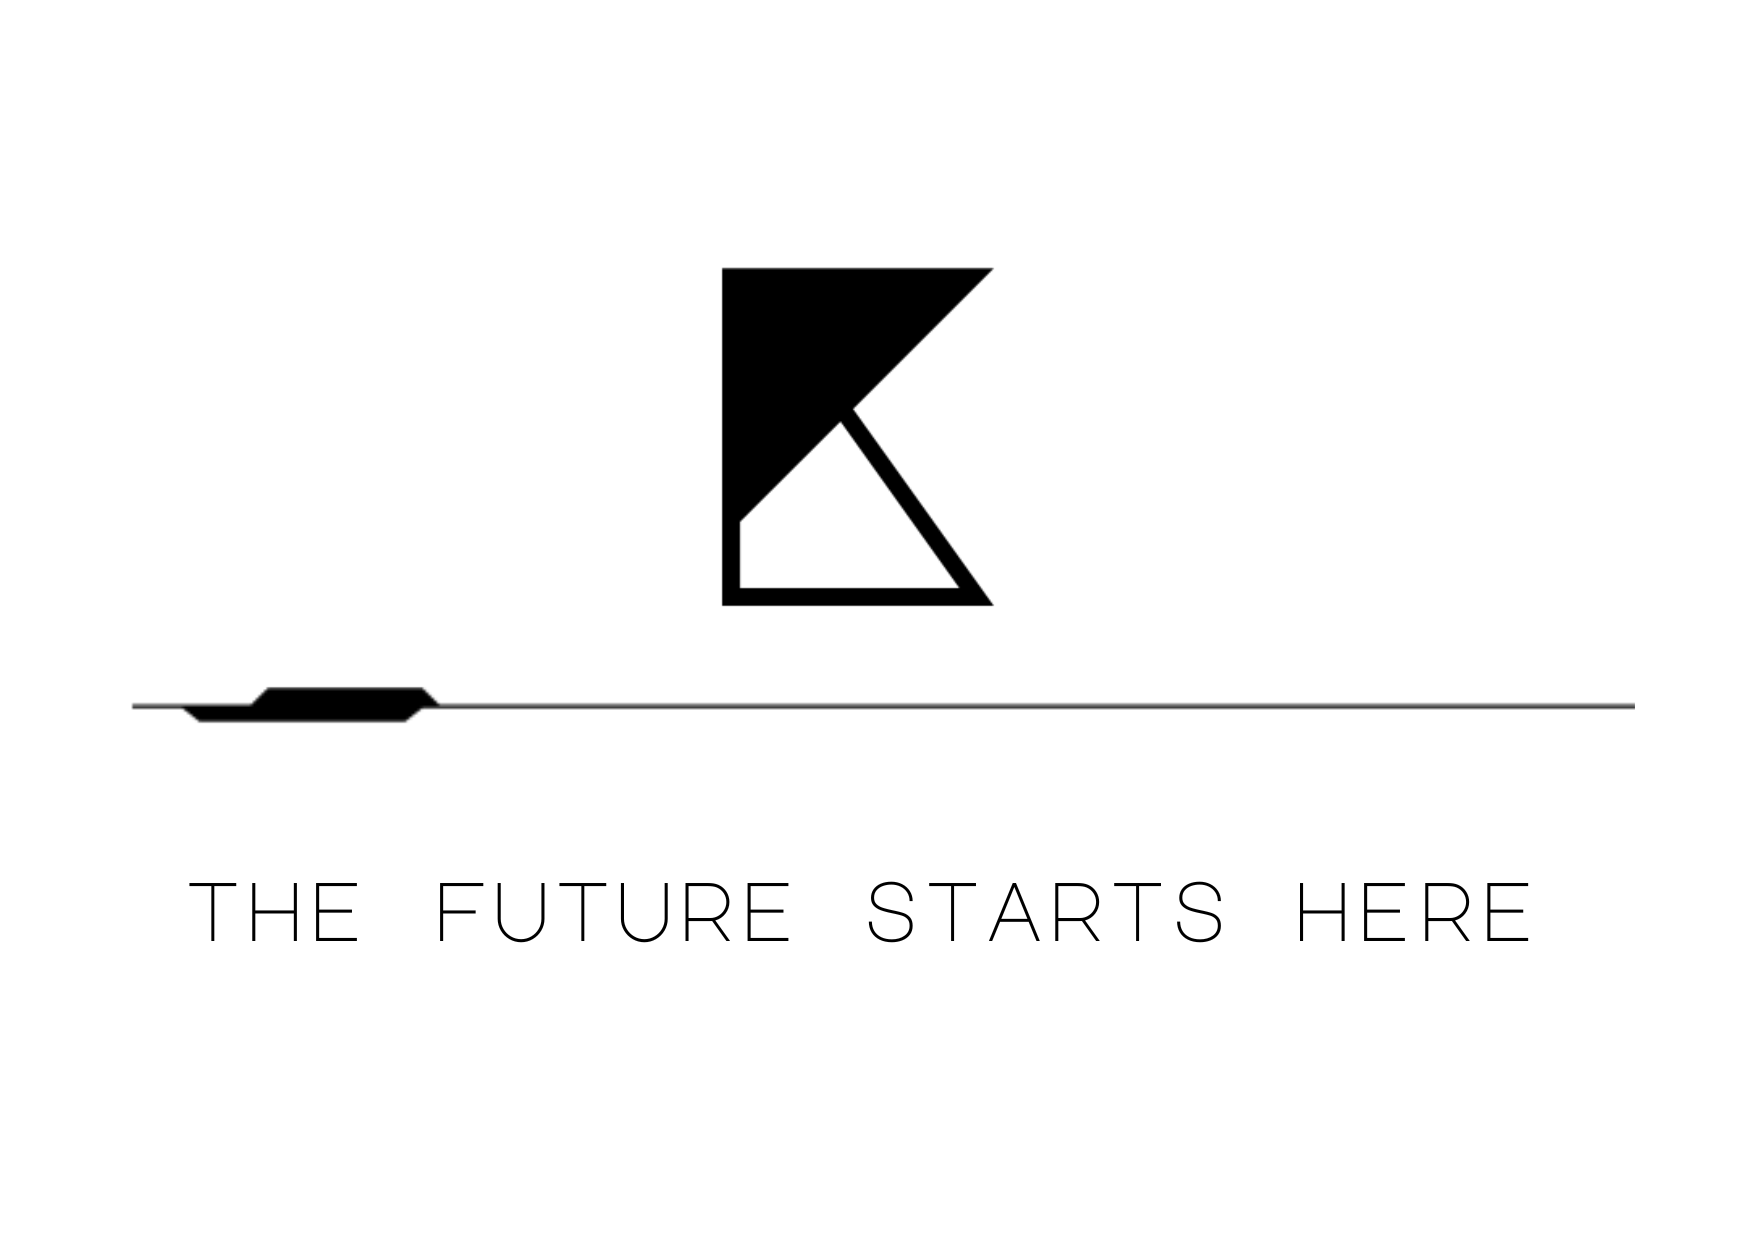
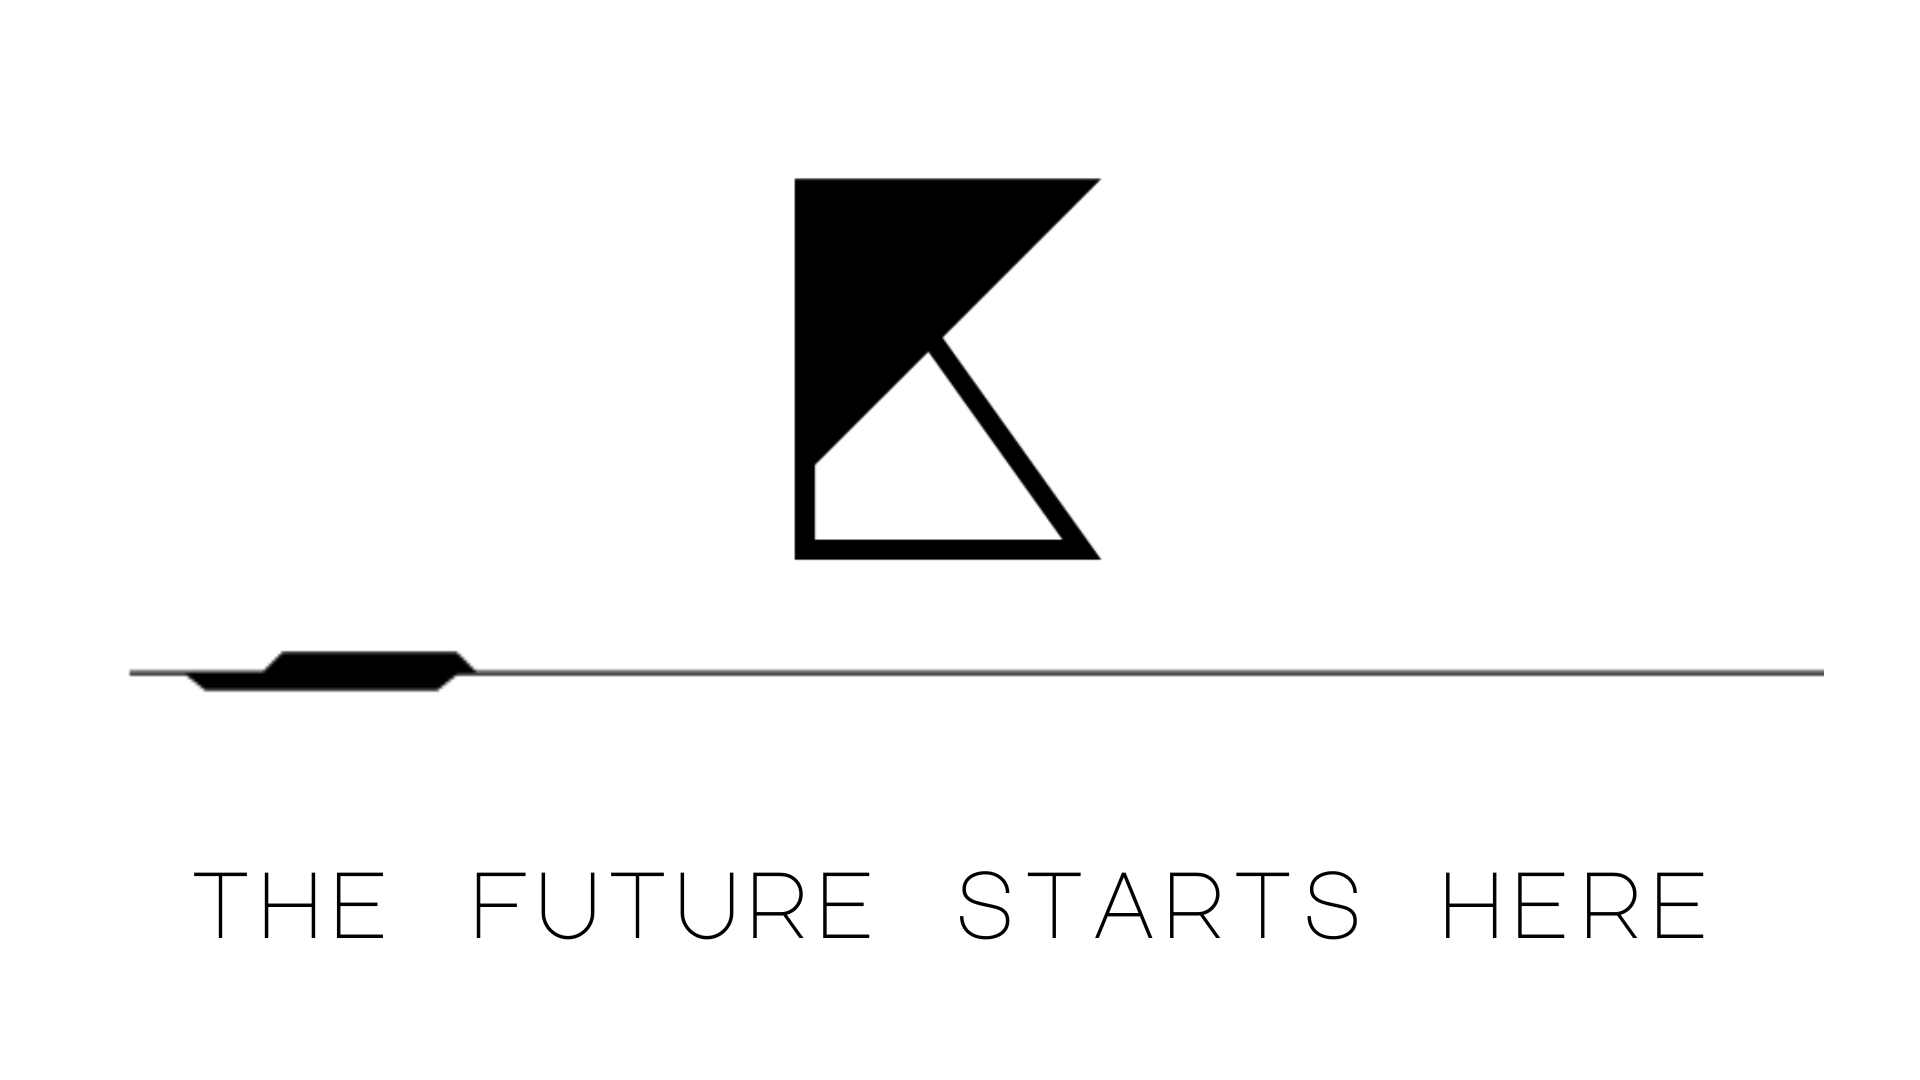
Changes to preview image + some micro fixes

diff --git a/KLY_Workflows/dev_tachyon/routes/main.js b/KLY_Workflows/dev_tachyon/routes/main.js
@@ -384,7 +384,7 @@ acceptManyBlocks=response=>{
 
 
 
-//Format of body : {symbiote,body}
+//Format of body : <transaction>
 //There is no <creator> field-we get it from tx
 acceptTransactions=response=>response.writeHeader('Access-Control-Allow-Origin','*').onAborted(()=>response.aborted=true).onData(async bytes=>{
 
@@ -407,14 +407,14 @@ acceptTransactions=response=>response.writeHeader('Access-Control-Allow-Origin',
 
     if(typeof transaction?.creator!=='string' || typeof transaction.nonce!=='number' || typeof transaction.sig!=='string'){
 
-        !response.aborted && response.end('Event structure is wrong')
+        !response.aborted && response.end(JSON.stringify({err:'Event structure is wrong'}))
 
         return
     }
 
     if(!global.CONFIG.SYMBIOTE.TRIGGERS.MAIN.ACCEPT_TXS){
         
-        !response.aborted && response.end('Route is off')
+        !response.aborted && response.end(JSON.stringify({err:'Route is off'}))
         
         return
         
@@ -422,7 +422,7 @@ acceptTransactions=response=>response.writeHeader('Access-Control-Allow-Origin',
 
     if(!global.SYMBIOTE_META.FILTERS[transaction.type]){
 
-        !response.aborted && response.end('No such filter. Make sure your <tx.type> is supported by current version of workflow runned on symbiote')
+        !response.aborted && response.end(JSON.stringify({err:'No such filter. Make sure your <tx.type> is supported by current version of workflow runned on symbiote'}))
         
         return
 
@@ -435,13 +435,13 @@ acceptTransactions=response=>response.writeHeader('Access-Control-Allow-Origin',
 
         if(filteredEvent){
 
-            !response.aborted && response.end('OK')
+            !response.aborted && response.end(JSON.stringify({status:'OK'}))
 
             global.SYMBIOTE_META.MEMPOOL.push(filteredEvent)
                         
-        }else !response.aborted && response.end(`Can't get filtered value of tx`)
+        }else !response.aborted && response.end(JSON.stringify({err:`Can't get filtered value of tx`}))
 
-    }else !response.aborted && response.end('Mempool is fullfilled')
+    }else !response.aborted && response.end(JSON.stringify({err:'Mempool is fullfilled'}))
 
 }),
 

diff --git a/KLY_Workflows/dev_tachyon/routes/api.js b/KLY_Workflows/dev_tachyon/routes/api.js
@@ -171,8 +171,8 @@ getLatestNBlocks=async(response,request)=>{
 
 
 
-// 0 - SID(in format <BLS_ValidatorPubkey>:<height>)
-
+// 0 - subchainID
+// 1 - SID
 getBlockBySID=(response,request)=>{
 
     //Set triggers
@@ -184,11 +184,17 @@ getBlockBySID=(response,request)=>{
             .writeHeader('Cache-Control',`max-age=${global.CONFIG.SYMBIOTE.TTL.API.BLOCK_BY_SID}`)
             .onAborted(()=>response.aborted=true)
 
+        let subchainContext = request.getParameter(0)
+        let sid = request.getParameter(1)
 
-        global.SYMBIOTE_META.STATE.get('BLOCK_RECEIPT:'+request.getParameter(0)).then(block=>
+        global.SYMBIOTE_META.STATE.get(`SID:${subchainContext}:${sid}`).then(blockID =>
 
-            !response.aborted && response.end(JSON.stringify(block))
+            global.SYMBIOTE_META.BLOCKS.get(blockID).then(
+                
+                block => !response.aborted && response.end(JSON.stringify(block))
             
+            )
+
         ).catch(_=>response.end('No block receipt'))
 
 
@@ -576,7 +582,7 @@ UWS_SERVER
 
 .get('/block_by_grid/:GRID',getBlockByGRID)
 
-.get('/block_by_sid/:SUBCHAIN_ID/:INDEX',getBlockBySID)
+.get('/block_by_sid/:SUBCHAIN/:SID',getBlockBySID)
 
 
 

diff --git a/KLY_Workflows/dev_tachyon/life.js b/KLY_Workflows/dev_tachyon/life.js
@@ -1381,7 +1381,7 @@ RUN_FINALIZATION_PROOFS_GRABBING = async (checkpointFullID,blockID) => {
     let blockHash = Block.genHash(block)
 
 
-    
+
     if(!global.SYMBIOTE_META.TEMP.has(checkpointFullID)) return
 
 
@@ -2526,7 +2526,7 @@ export let GENERATE_BLOCKS_PORTION = async() => {
 
             extraData.reassignments = {}
 
-            // Add the ASP for prime pool
+            // 0.Add the ASP for prime pool
 
             if(tempObject.SKIP_HANDLERS.has(myPrimePool)){
 
@@ -2534,7 +2534,8 @@ export let GENERATE_BLOCKS_PORTION = async() => {
 
             }
 
-        
+            // 1.And for all the previous reserve pools from position 0 to (<YOUR_POSITION>-1)
+
             for(let reservePool of allPreviousPools){
 
                 if(tempObject.SKIP_HANDLERS.has(reservePool)){

diff --git a/README.md b/README.md
@@ -1,7 +1,7 @@
 
 <div align="center">
 
-<img src="./images/CorePreview.png" height="600px">
+<img src="./images/CorePreview.png">
 
 #
 
